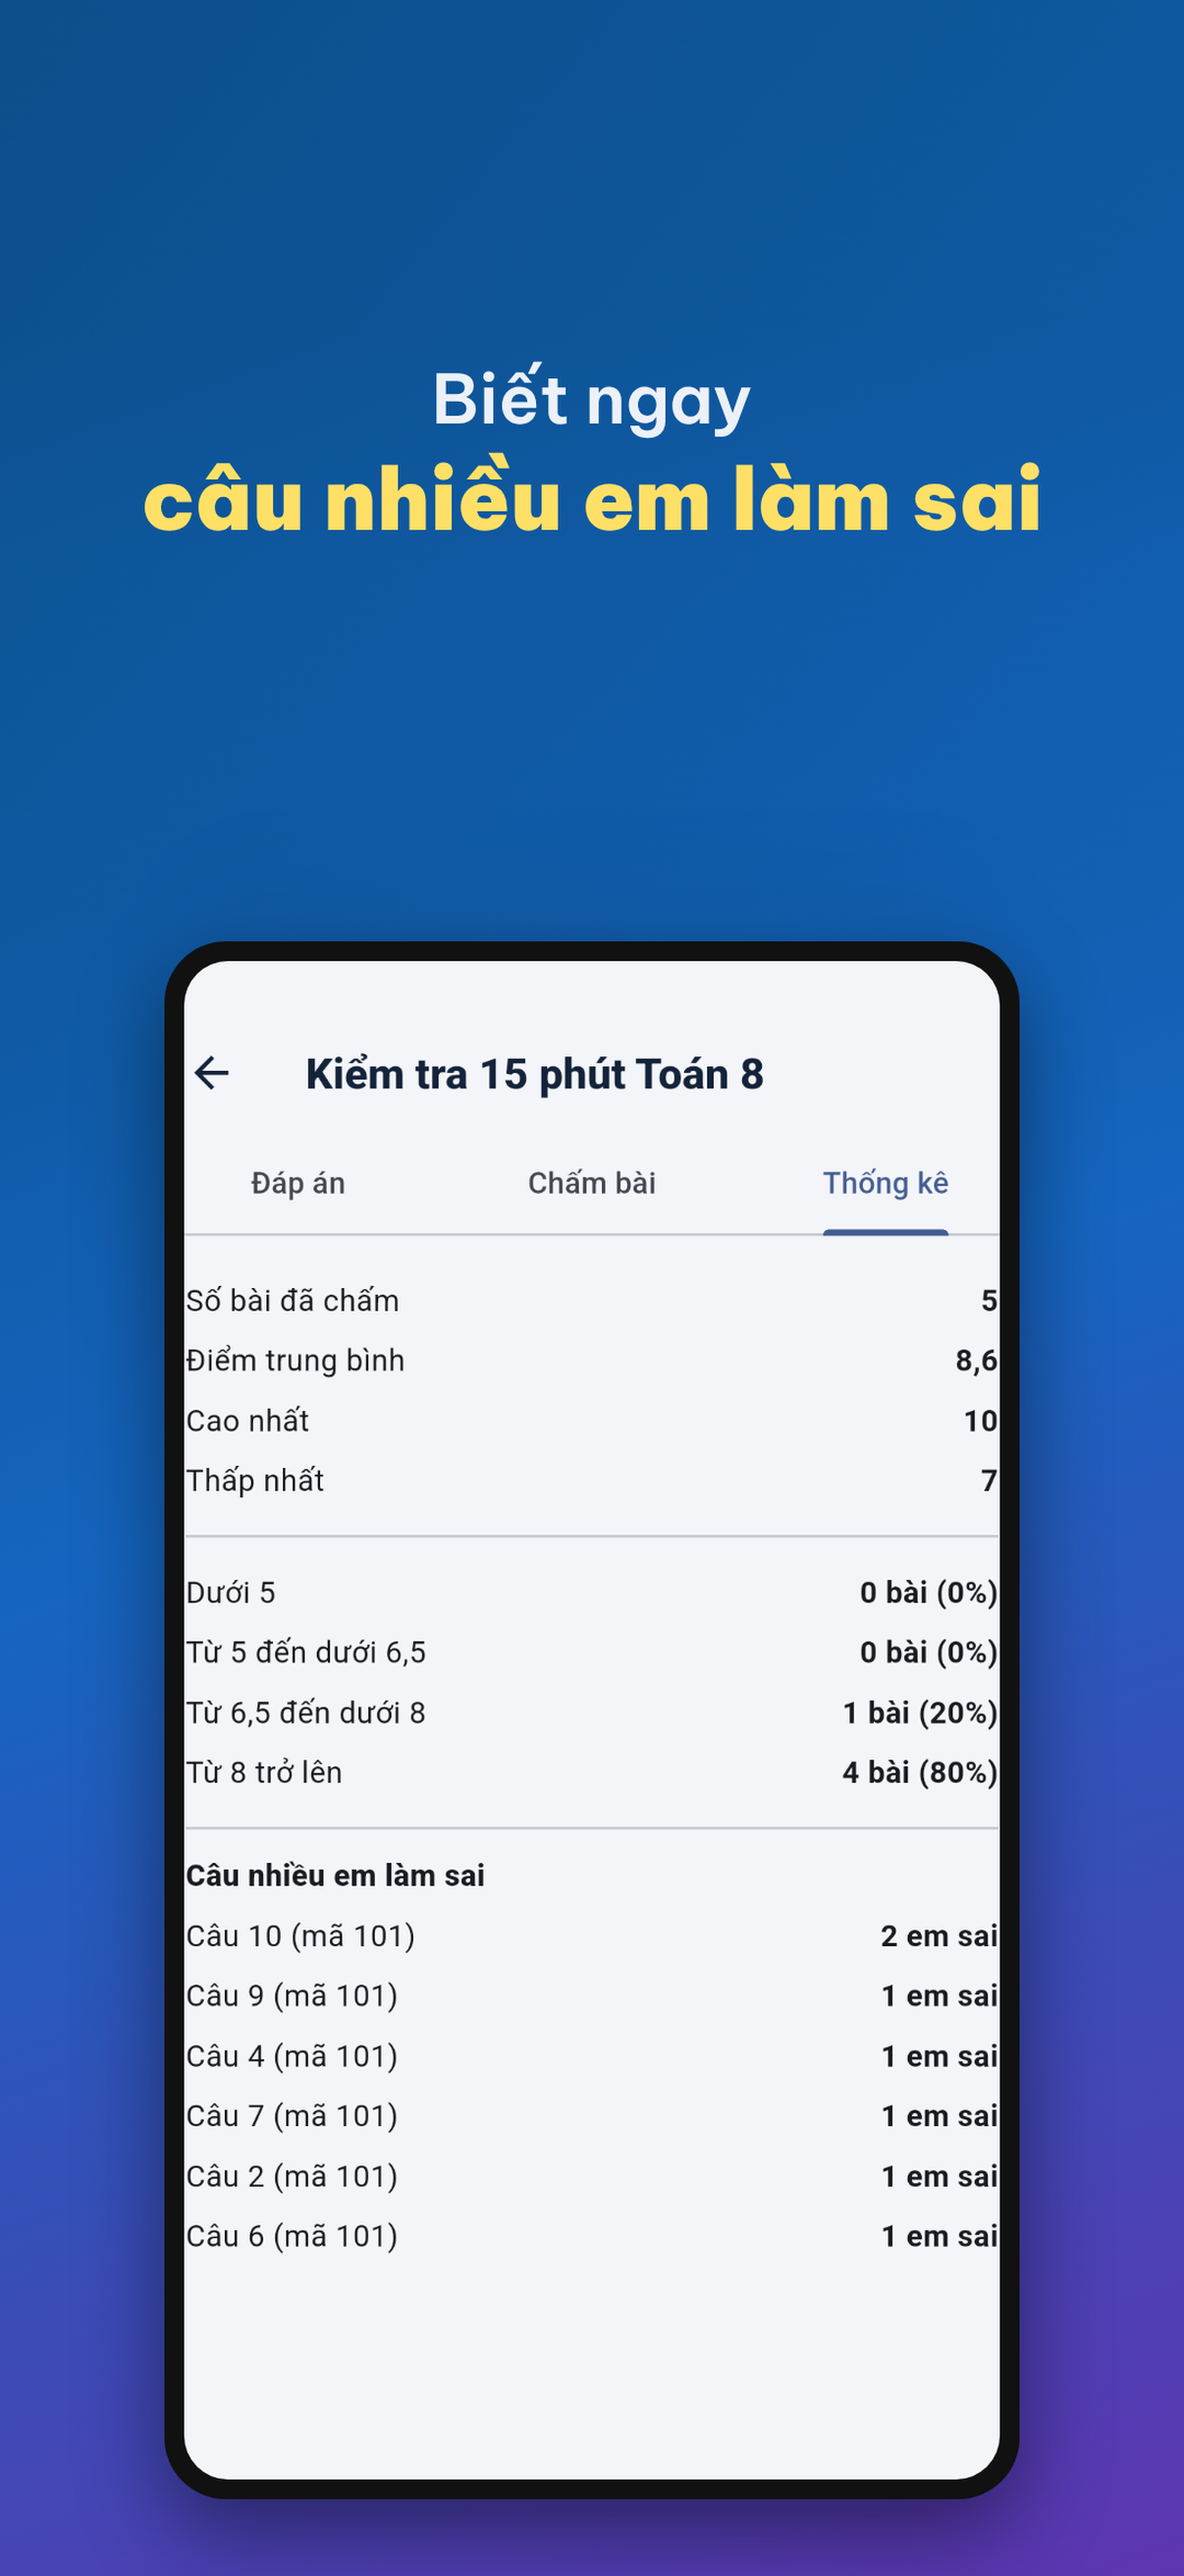
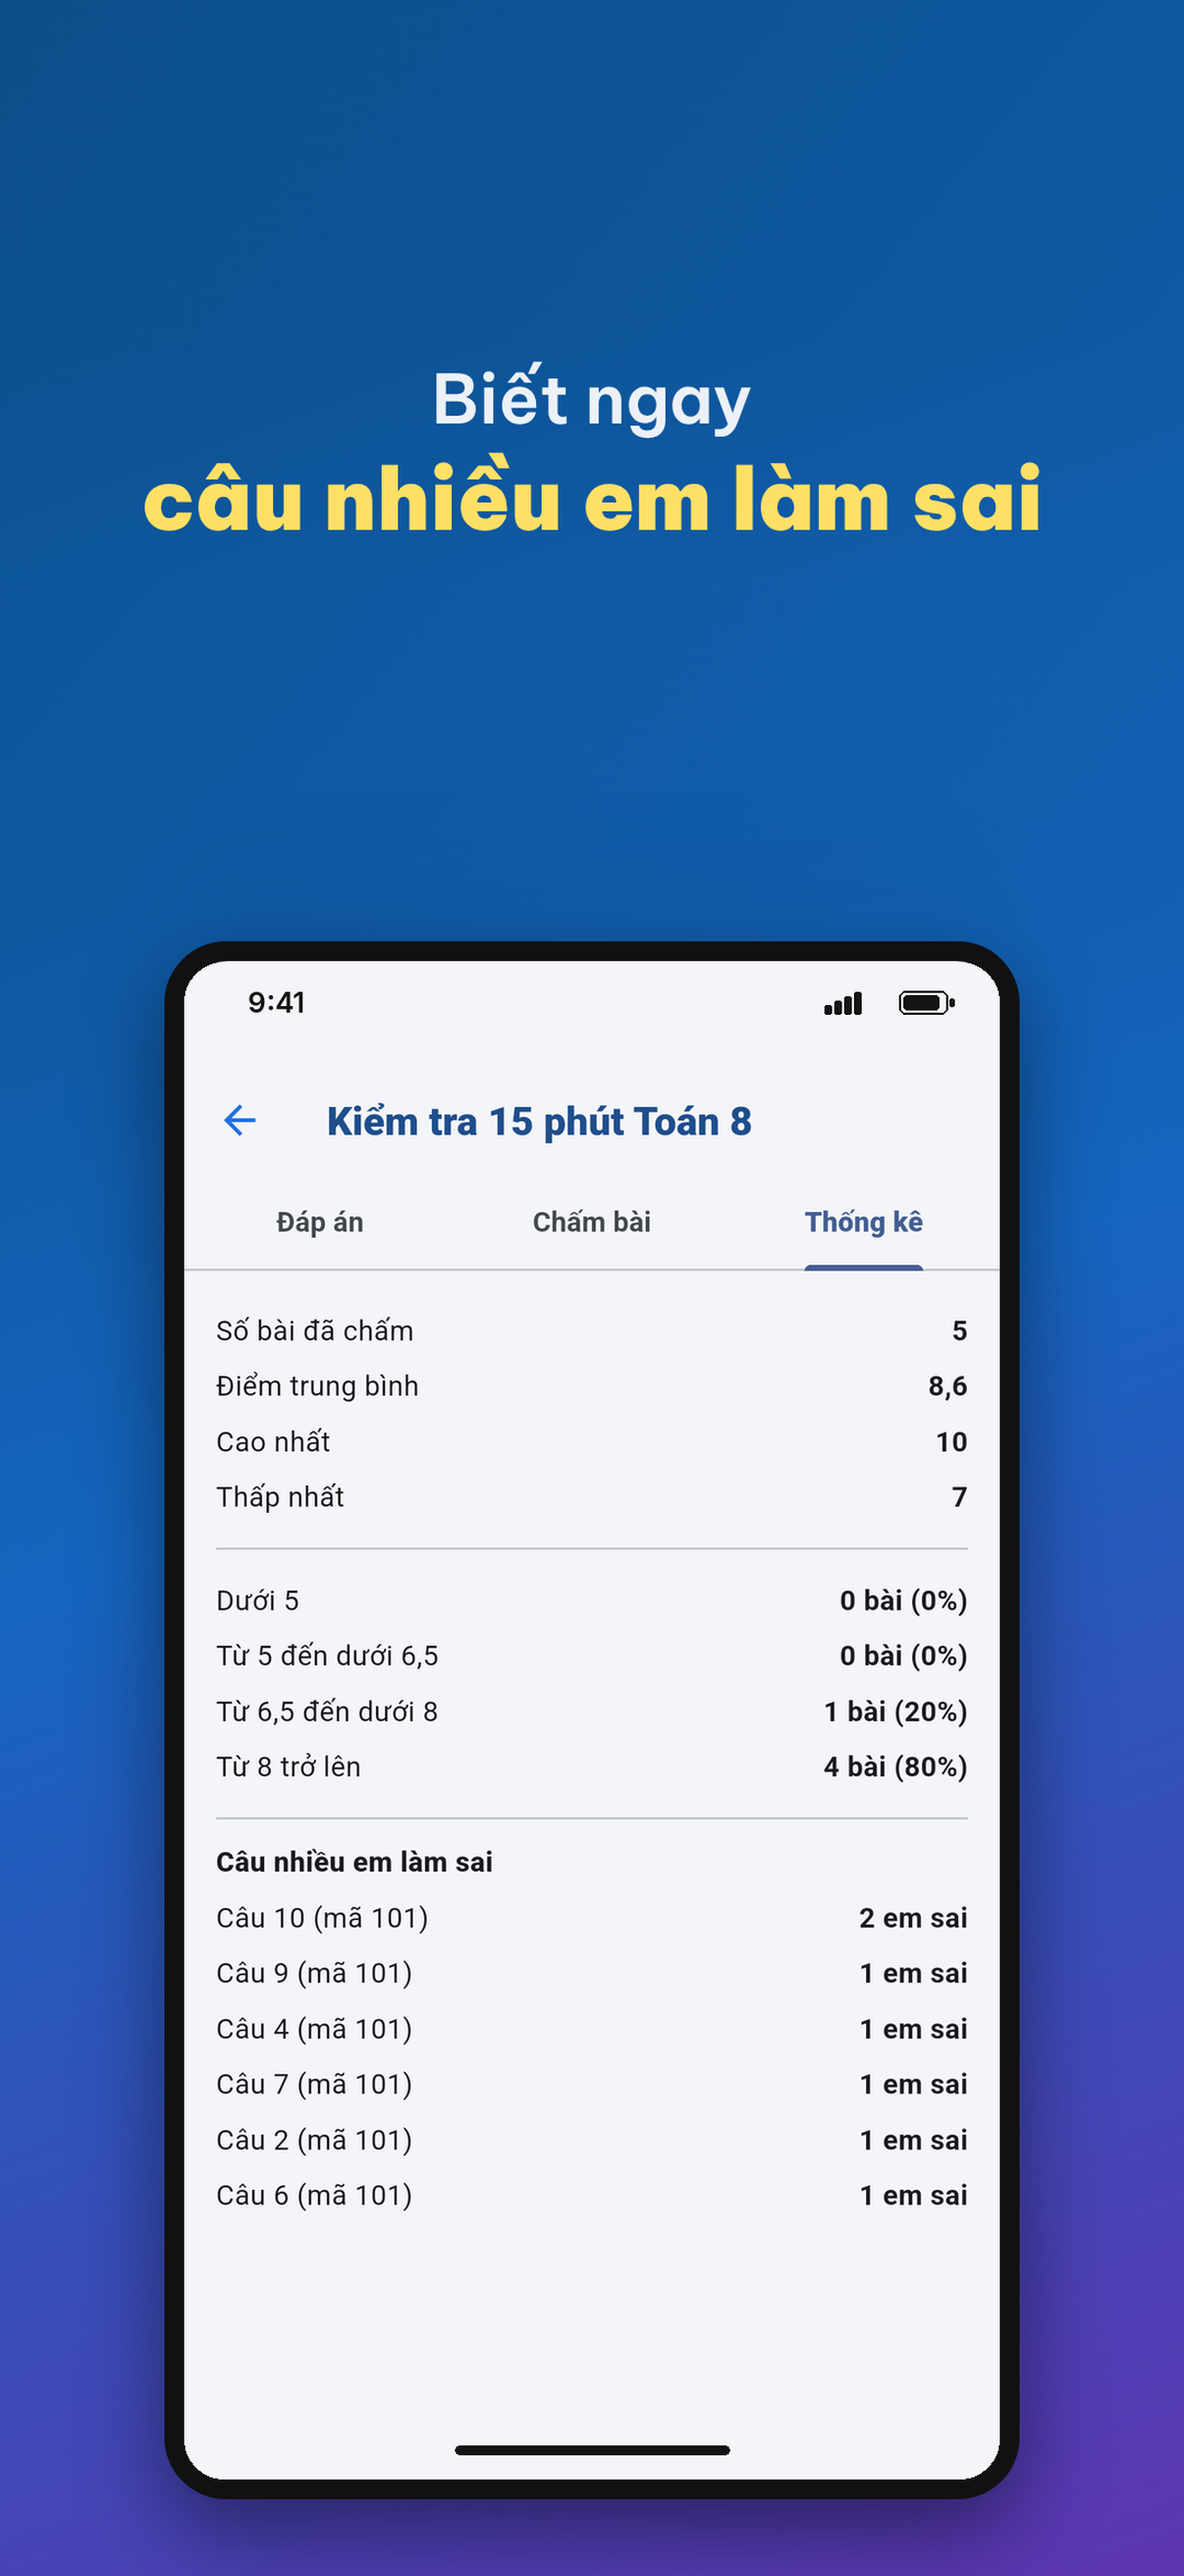
Ảnh cửa hàng bản 0.4.0 (12): chụp lại cả 8 ảnh iPhone, iPad (trang chủ thứ tự mới, tiện ích có thanh dưới), thêm ảnh 9 Tạo bài trình chiếu
Claude-Session: https://claude.ai/code/session_013BLcf96gVUy6GsDjSduhx2

diff --git a/tool/anh_cua_hang/README.md b/tool/anh_cua_hang/README.md
@@ -5,3 +5,6 @@
 - `dung_anh_ipad.py chup.png man_hinh_0X.png "Dòng 1" "Dòng 2" ra.png`: dựng ảnh iPad 13 inch 2064×2752 từ ảnh chụp ở cỡ iPad (workflow `xem_ipad.yml`, nhánh anh-xem-ipad) → `cua-hang/anh-ipad/`. Phông Be Vietnam Pro (Google Fonts).
 - Đường dẫn trong các tập lệnh là đường dẫn máy dựng ảnh của Claude; sửa lại khi chạy chỗ khác.
 - `anh_noi_bat.py man_hinh_01.png chup.png ra.png thu_muc_phong`: dựng ảnh nổi bật Google Play 1024×500 (26/11/2026: khung máy trang chủ lấy từ ảnh số 1, máy thứ hai là ảnh chụp Nhận xét học sinh xem_42_nhan_xet_ai.png). Không ghi giá, "Miễn phí", xếp hạng (quy định Google Play).
+
+- `dung_anh_iphone.py man_hinh_cu.png anh_chup.png ra.png ["Dòng 1" "Dòng 2"]` (26/11/2026): dựng lại ảnh 1080×1920 từ ảnh chụp mới (nhánh anh-xem-app-1, anh-xem-app-2 khi chạy xem_app.yml riêng từng nhóm bước bằng ô buoc, hau_to), giữ nền, khung máy, chữ của ảnh cũ; có hai dòng chữ thì vẽ tiêu đề mới. Ảnh trang chủ (xem_95_thanh_duoi.png) cắt 63 điểm ảnh dải xám ở đầu trước khi ghép; ảnh iPad trang chủ chép hàng 48 lên che dải xám. Sau đó giãn 1206×2622 theo mốc 91, 313, 405 cho mọi ảnh → `cua-hang/anh-iphone/`.
+- Bộ ảnh 26/11/2026 (bản 0.4.0 (12)): 9 ảnh, thêm ảnh 9 "Giáo án có sẵn thành / bài trình chiếu" (nền lấy từ man_hinh_05). App Store nhận tối đa 10 ảnh mỗi loại; Google Play tối đa 8 ảnh điện thoại, khi làm hồ sơ Play chọn 8 ảnh.
